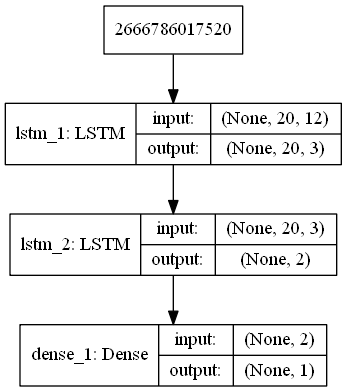
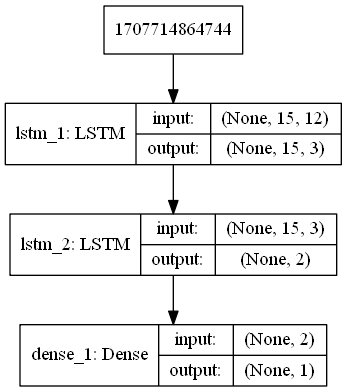
prevendo com ambas as redes e alguma qualidade

diff --git a/Treinando_rede/Treina_rede_acoes.py b/Treinando_rede/Treina_rede_acoes.py
@@ -26,13 +26,12 @@ from numpy import array
 from sklearn.model_selection import train_test_split
 
 ########################### Inicia lendo os dados, separando ou ja lendo de um arquivo
-filePath = ['./../DATAYEAR/COTACAO_CMIG4_2019.txt']
+#filePath = ['./../DATAYEAR/COTACAO_CMIG4_2019.txt']
 #filePath = ['./../DATAYEAR/COTACAO_VVAR3_2019.txt']
-#filePath = ['./../DATAYEAR/COTACAO_ITUB4_2011.txt', './../DATAYEAR/COTACAO_ITUB4_2012.txt', './../DATAYEAR/COTACAO_ITUB4_2013.txt', './../DATAYEAR/COTACAO_ITUB4_2014.txt',
-#            './../DATAYEAR/COTACAO_ITUB4_2015.txt', './../DATAYEAR/COTACAO_ITUB4_2016.txt', './../DATAYEAR/COTACAO_ITUB4_2017.txt', './../DATAYEAR/COTACAO_ITUB4_2018.txt']
+filePath = [ './../DATAYEAR/COTACAO_ITUB4_2019.txt']
 #filePath = [ './../DATAYEAR/COTACAO_PETR4_2019.txt']
 #filePath = ['./../DATAYEAR/COTACAO_BOVA11_2016.txt', './../DATAYEAR/COTACAO_BOVA11_2017.txt', './../DATAYEAR/COTACAO_BOVA11_2018.txt', './../DATAYEAR/COTACAO_BOVA11_2019.txt']
-SampleSize = 20
+SampleSize = 15
 Dias_previstos = 1
 Dias_futuros   = 3
 
@@ -42,7 +41,7 @@ Data = fl.ReadData(filePath)
 Data = fl.removeDate(Data)
 Data_norm, maximos, minimos, amplitudes = fl.Normalize(Data)
 
-variacao  = fl.ROC(Dias_futuros, Data[:,1]) # Calculo a variacao no valor do fechamento real, nao normalizado
+variacao  = fl.ROC(Dias_futuros, Data[:,1]) # Calculo a variacao no valor do fechamento real, normalizado para o dia anterior
 Data_norm = fl.concatena(Data_norm, variacao) # Adiciono como coluna no vetor de dados em geral, posso utilizar para saida ou entrada
 
 mascara_entradas = [1, 1, 1, 1, 1, 1, 1, 1, 1, 1, 1, 1]
@@ -85,12 +84,20 @@ Ytreino = Y.copy()
 (trainx, valx, trainy, valy) = train_test_split(Xtreino, Ytreino, test_size=0.25, random_state=30)
 
 ########################### Aqui monta a rede usando a classe desejada
-treinar = True
+flag_calculo = 3 # 1 para valores direto na saida, 2 para diferenca entre os dias, 3 para pura previsao
+if flag_calculo == 2:
+    treinar = True
+    testx = valx.copy()
+    testy = valy.copy()
+if flag_calculo == 3:
+    treinar = False
+    testx = X_desconhecido.copy()
+
 if treinar:
     epocas = 10000 # por quantas epocas treinar
 
     print("Criando otimizador e rede...")
-    adam = Adam(lr=0.001, decay=0.000005, amsgrad=False)
+    adam = Adam(lr=0.0005, decay=0.000005, amsgrad=False)
     rede = Rede_recursiva.montar(SampleSize, InputNumber, Dias_previstos*len(OutputPositions))
     #rede = Rede_complexa.montar(SampleSize, InputNumber, Dias_previstos*len(OutputPositions))
     rede.compile(optimizer=adam, loss='mse')
@@ -103,20 +110,17 @@ if treinar:
     # Aqui acontece o treino e ajuste de pesos realmente - observar BATCH SIZE
     print("Comecando o treinamento da rede...")
     #rede = load_model('Melhores_redes/atual.hdf5')
-    H = rede.fit(trainx, trainy, validation_data=(valx, valy), batch_size=50, epochs=epocas, callbacks=[melhor_rede, parada_forcada], verbose=2)
+    H = rede.fit(trainx, trainy, validation_data=(valx, valy), batch_size=10, epochs=epocas, callbacks=[melhor_rede, parada_forcada], verbose=2)
 
 ########################### Testar em cima da melhor rede possivel salva anteriormente
 rede2 = load_model('Melhores_redes/atual.hdf5')
-testx = valx.copy()
-testy = valy.copy()
-#testx = X_desconhecido.copy()
 saida_teste = rede2.predict(testx, verbose=1)
 
 ########################### Calculo de acuracia em termos de tendencia
 tendencia_real = []
 tendencia_calc = []
 acertos = 0
-flag_calculo = 2 # 1 para valores direto na saida, 2 para diferenca entre os dias, 3 para pura previsao
+
 # Quando valores direto na saida
 if flag_calculo == 1:
     for amostra in testy:
